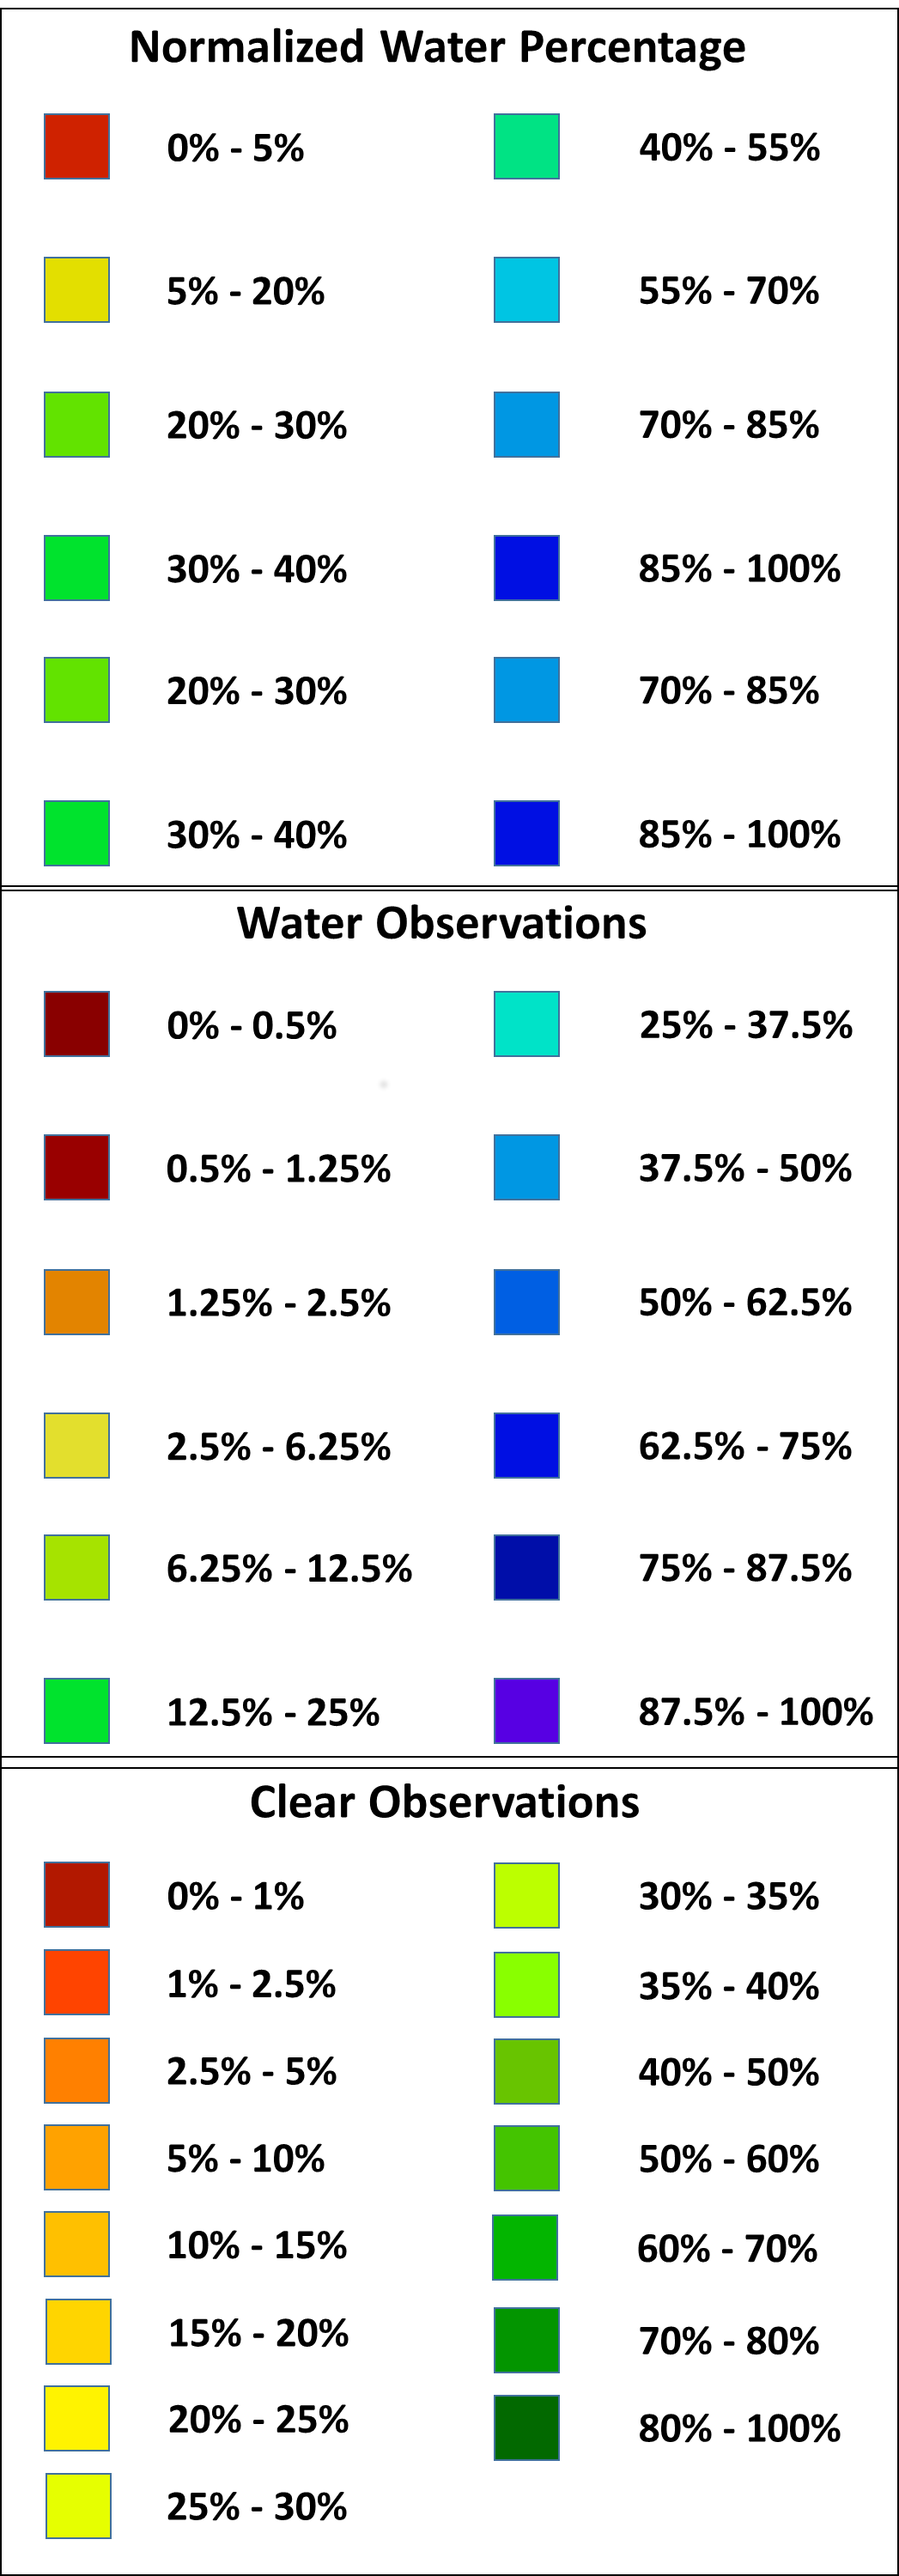
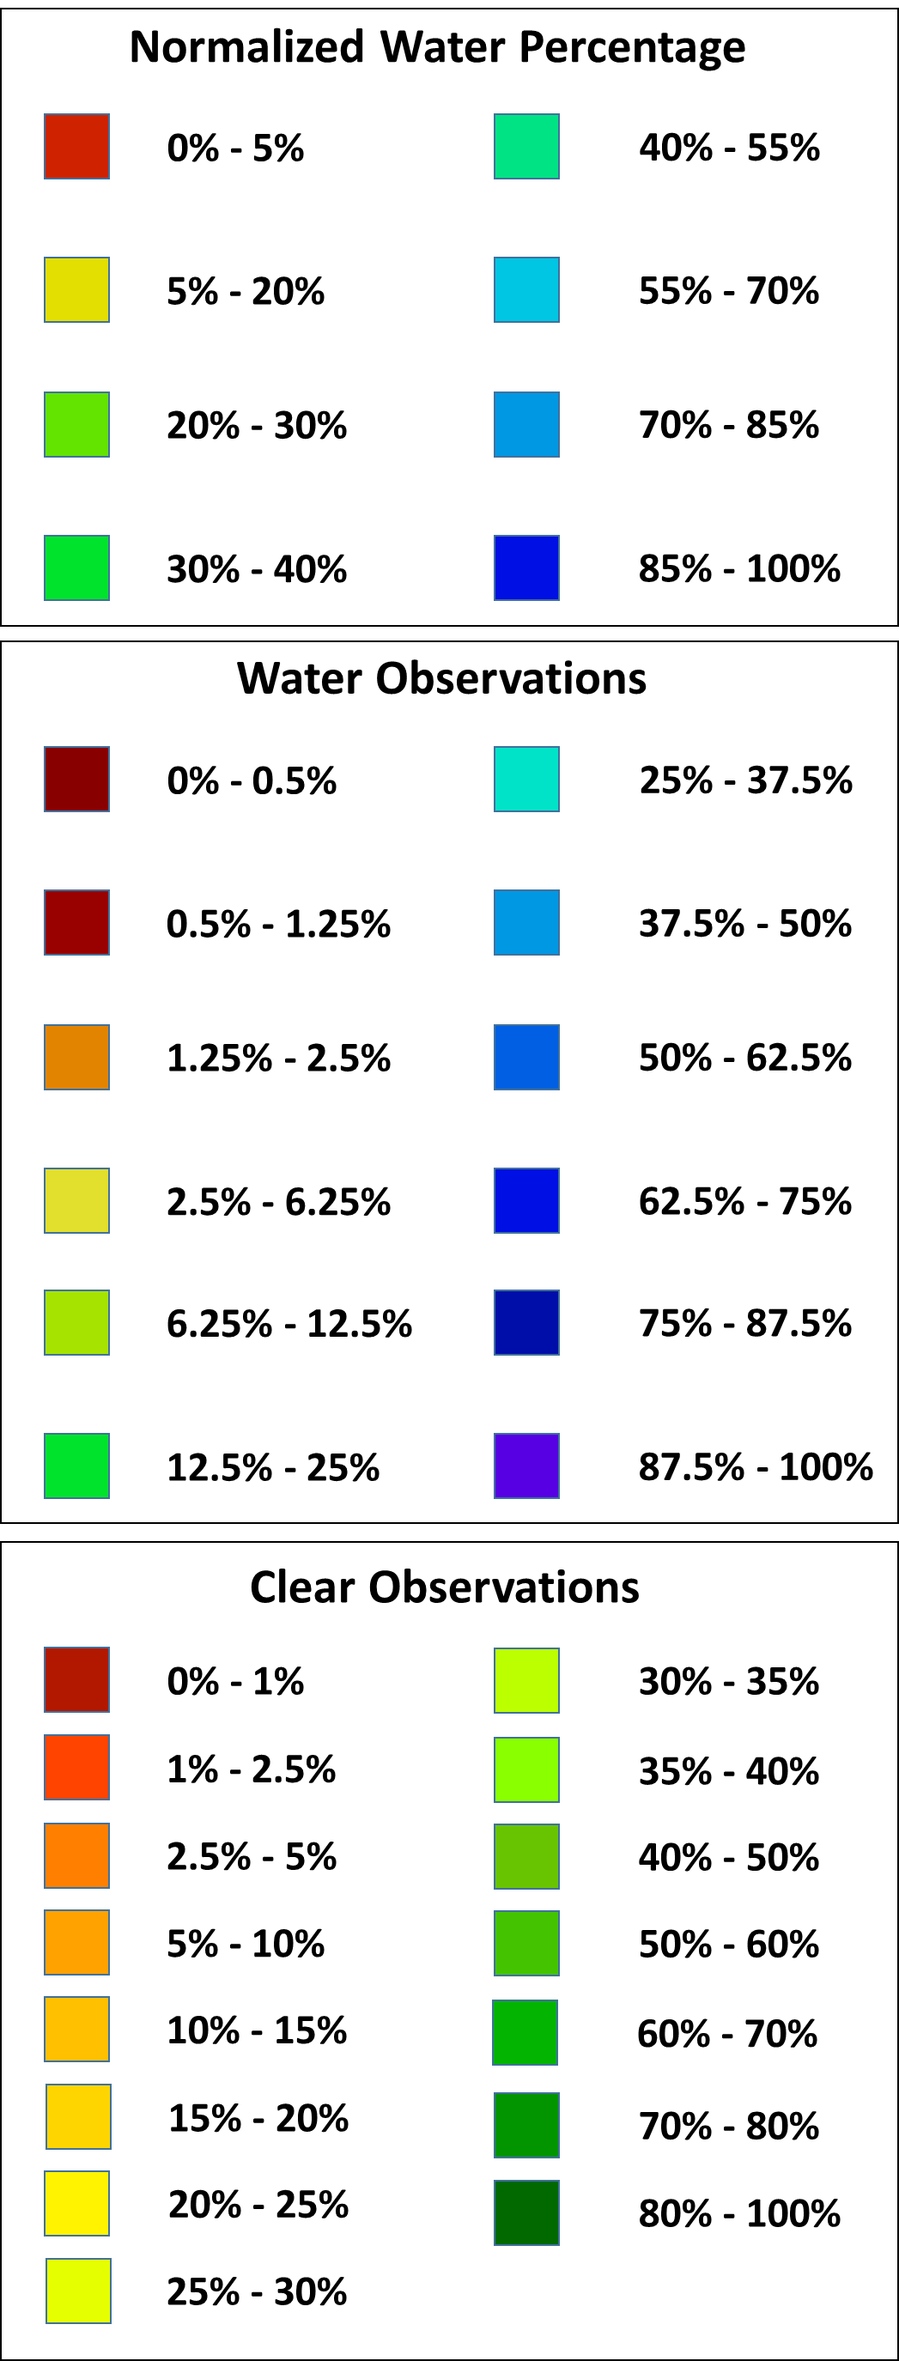
Fixed water detection color scale and a small bugfix in ingestion on demand that causes storage units to remain on disk.

diff --git a/apps/data_cube_manager/views/ingestion.py b/apps/data_cube_manager/views/ingestion.py
@@ -319,7 +319,7 @@ class CreateDataCubeSubset(View):
         existing_requests = models.IngestionRequest.objects.filter(user=request.user.username)
 
         if existing_requests.exists():
-            tasks.delete_ingestion_request(ingestion_request_id=existing_requests[0].pk)
+            tasks.delete_ingestion_request.delay(ingestion_request_id=existing_requests[0].pk).get()
             existing_requests.delete()
 
         ingestion_request = models.IngestionRequest(
